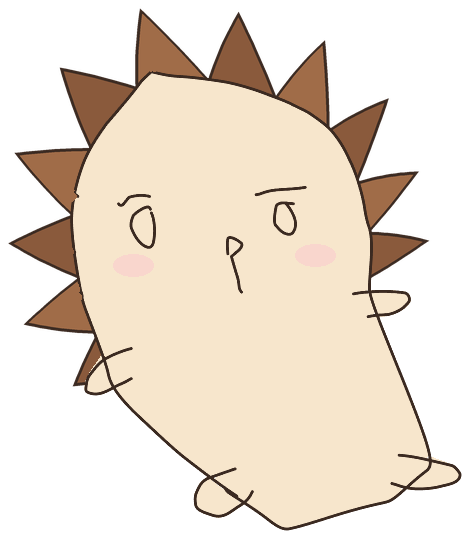
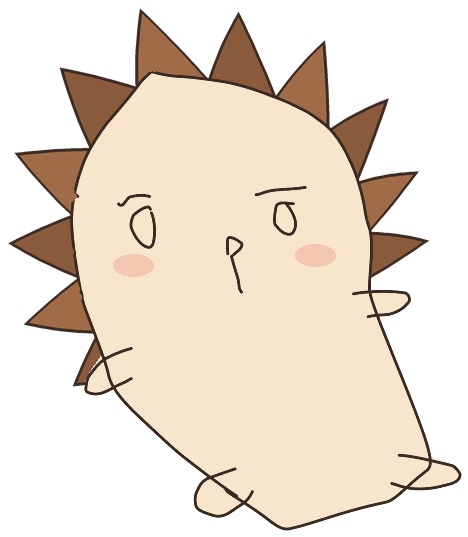
프로필 그림: 부모는 어른 고슴도치, 자녀는 아기 고슴도치
- 연결 탭·설정·연결된 가족·기록 탭 글·역할 선택 화면의 이니셜 동그라미를 고슴도치 그림으로
- 배경은 고른 프로필 색을 연하게, 테두리는 진하게
- 볼터치가 투명하게 비치던 문제 수정 (마스코트 그림도 다시 뽑음)

Claude-Session: https://claude.ai/code/session_01HRZhSQmDeYGswkUaTWCnCH

Changed region(s): [[0.2393, 0.4469, 0.3291, 0.5363], [0.6282, 0.4469, 0.7179, 0.5065]]

diff --git a/index.html b/index.html
@@ -13,7 +13,7 @@
   <meta name="apple-mobile-web-app-title" content="Kync" />
   <link rel="preload" href="fonts/SUIT-Variable.woff2" as="font" type="font/woff2" crossorigin />
   <link rel="preload" href="images/doci.png" as="image" />
-  <link rel="stylesheet" href="kync.css?v=20261012-7" />
+  <link rel="stylesheet" href="kync.css?v=20261013-1" />
   <script>
     // 활동 페이지에서 돌아온 경우: 로그인 확인이 끝나면 그 탭을 열어요 (enterApp에서 처리)
     (function () {
@@ -117,12 +117,12 @@
     <p class="screen-sub">가족 안에서의 역할에 따라 보이는 화면이 달라요.</p>
     <div class="role-opts">
       <button class="role-opt" onclick="setUserRole('parent')">
-        <span class="role-ic parent" data-ic="heart" data-size="26"></span>
+        <span class="role-ic parent"><img src="images/hog-adult.png" alt="" width="52" height="52"></span>
         <span><b>부모로 시작하기</b><small>자녀의 마음을 더 깊이 이해하고 싶어요.</small></span>
         <span class="chev" data-ic="chev"></span>
       </button>
       <button class="role-opt" onclick="setUserRole('child')">
-        <span class="role-ic child" data-ic="smile" data-size="26"></span>
+        <span class="role-ic child"><img src="images/hog-baby.png" alt="" width="52" height="52"></span>
         <span><b>자녀로 시작하기</b><small>부모님께 내 진심을 편하게 전하고 싶어요.</small></span>
         <span class="chev" data-ic="chev"></span>
       </button>
@@ -439,18 +439,18 @@
 <script src="https://www.gstatic.com/firebasejs/9.23.0/firebase-auth-compat.js"></script>
 <script src="https://www.gstatic.com/firebasejs/9.23.0/firebase-firestore-compat.js"></script>
 
-<script src="kync-ui.js?v=20261012-7"></script>
-<script src="kync-legal.js?v=20261012-7"></script>
-<script src="firebase-system.js?v=20261012-7"></script>
-<script src="kync-account.js?v=20261012-7"></script>
-<script src="kync-core.js?v=20261012-7"></script>
-<script src="kync-features.js?v=20261012-7"></script>
-<script src="kync-balance.js?v=20261012-7"></script>
-<script src="kync-diary.js?v=20261012-7"></script>
-<script src="kync-quests2.js?v=20261012-7"></script>
-<script src="kync-counsel.js?v=20261012-7"></script>
-<script src="kync-activity.js?v=20261012-7"></script>
-<script src="kync-inbox.js?v=20261012-7"></script>
+<script src="kync-ui.js?v=20261013-1"></script>
+<script src="kync-legal.js?v=20261013-1"></script>
+<script src="firebase-system.js?v=20261013-1"></script>
+<script src="kync-account.js?v=20261013-1"></script>
+<script src="kync-core.js?v=20261013-1"></script>
+<script src="kync-features.js?v=20261013-1"></script>
+<script src="kync-balance.js?v=20261013-1"></script>
+<script src="kync-diary.js?v=20261013-1"></script>
+<script src="kync-quests2.js?v=20261013-1"></script>
+<script src="kync-counsel.js?v=20261013-1"></script>
+<script src="kync-activity.js?v=20261013-1"></script>
+<script src="kync-inbox.js?v=20261013-1"></script>
 
 <script>
 // 탭 전환 (selectTab은 kync-ui.js에 있어요)

diff --git a/kync-core.js b/kync-core.js
@@ -139,7 +139,7 @@ const App = {
       const others = members.filter(m => m.uid !== myUid);
       const html = others.length ? others.map(m => `
         <div class="member">
-          <div class="avatar" style="background:${KyncUI.avatarColor(m.uid, m.role)}">${this._esc((m.name || '?')[0])}</div>
+          ${KyncUI.avatar(m.uid, m.role)}
           <div><b>${this._esc(m.name || '이름 없음')}</b><small>${m.role === 'parent' ? '부모' : '자녀'}</small></div>
         </div>`).join('') : empty;
       listIds.forEach(id => { const el = document.getElementById(id); if (el) el.innerHTML = html; });
@@ -167,8 +167,8 @@ const App = {
     const userName = localStorage.getItem('kync_user_name') || '';
     if (userName) {
       ['p-username','c-username'].forEach(id => { const el = document.getElementById(id); if (el) el.textContent = userName; });
-      const myColor = KyncUI.avatarColor(KyncAuth?.current?.uid || localStorage.getItem('kync_user_uid'), this._role());
-      ['p-avatar','c-avatar'].forEach(id => { const el = document.getElementById(id); if (el) { el.textContent = userName[0]; el.style.background = myColor; } });
+      const myUid = KyncAuth?.current?.uid || localStorage.getItem('kync_user_uid');
+      [['p-avatar', 'parent'], ['c-avatar', 'child']].forEach(([id, r]) => { const el = document.getElementById(id); if (el) el.outerHTML = KyncUI.avatar(myUid, r, 'lg').replace('class="avatar', `id="${id}" class="avatar`); });
     }
     const joinDate = localStorage.getItem('kync_join_date');
     if (joinDate) this._renderDays(joinDate);

diff --git a/kync-ui.js b/kync-ui.js
@@ -7,7 +7,7 @@
 ═══════════════════════════════════════════════════════════ */
 
 const KYNC_CONFIG = {
-  version: '1.1.1',
+  version: '1.1.2',
   contactEmail: 'xoun148@gmail.com',
   termsVersion: '2026-10-12',   // 약관 내용이 바뀌면 날짜를 바꾸면 다시 동의를 받아요
 };
@@ -228,6 +228,18 @@ KyncUI.avatarColor = function (uid, role) {
   const mine = uid && uid === (KyncAuth?.current?.uid || localStorage.getItem('kync_user_uid'));
   const c = (mine && KyncAccount?.profile?.color) || KyncAccount?.family?.members?.[uid]?.color;
   return c || (role === 'child' ? '#4F7FAF' : '#7A4E36');
+};
+
+// 프로필 그림: 부모는 어른 고슴도치, 자녀는 아기 고슴도치. 배경은 고른 색을 연하게
+KyncUI.tint = function (hex, amt) {
+  const n = parseInt(hex.slice(1), 16), a = amt ?? 0.22;
+  const mix = c => Math.round(255 - (255 - c) * a);
+  return `rgb(${mix(n >> 16)}, ${mix((n >> 8) & 255)}, ${mix(n & 255)})`;
+};
+KyncUI.avatar = function (uid, role, cls) {
+  const color = KyncUI.avatarColor(uid, role);
+  const src = role === 'child' ? 'images/hog-baby.png' : 'images/hog-adult.png';
+  return `<div class="avatar hog ${cls || ''}" style="background:${KyncUI.tint(color)};box-shadow:inset 0 0 0 2px ${color}"><img src="${src}" alt="${role === 'child' ? '아기 고슴도치' : '어른 고슴도치'}"></div>`;
 };
 
 /* ── 홈 화면에 추가 (앱 설치) ── */

diff --git a/quiz.html b/quiz.html
@@ -6,7 +6,7 @@
   <title>Kync — 대화 유형 검사</title>
   <meta name="theme-color" content="#F4F1EC" />
   <link rel="icon" href="icons/icon-192.png" />
-  <link rel="stylesheet" href="kync.css?v=20261012-7" />
+  <link rel="stylesheet" href="kync.css?v=20261013-1" />
   <script src="https://cdnjs.cloudflare.com/ajax/libs/Chart.js/4.4.1/chart.umd.min.js"></script>
 </head>
 <body>
@@ -101,12 +101,12 @@
 <script src="https://www.gstatic.com/firebasejs/9.23.0/firebase-app-compat.js"></script>
 <script src="https://www.gstatic.com/firebasejs/9.23.0/firebase-auth-compat.js"></script>
 <script src="https://www.gstatic.com/firebasejs/9.23.0/firebase-firestore-compat.js"></script>
-<script src="kync-ui.js?v=20261012-7"></script>
-<script src="firebase-system.js?v=20261012-7"></script>
+<script src="kync-ui.js?v=20261013-1"></script>
+<script src="firebase-system.js?v=20261013-1"></script>
 <script>
 KyncAuth.onAuthChange(user => { if (!user) location.href = 'index.html'; });
 function goHome(){ Quiz.saveAndGoHome(); }
 </script>
-<script src="quiz.js?v=20261012-7"></script>
+<script src="quiz.js?v=20261013-1"></script>
 </body>
 </html>

diff --git a/activity-quiz.html b/activity-quiz.html
@@ -6,7 +6,7 @@
   <title>Kync — 서로 맞히기</title>
   <meta name="theme-color" content="#F4F1EC" />
   <link rel="icon" href="icons/icon-192.png" />
-  <link rel="stylesheet" href="kync.css?v=20261012-7" />
+  <link rel="stylesheet" href="kync.css?v=20261013-1" />
 </head>
 <body>
 <div class="sub-app">
@@ -28,9 +28,9 @@
 <script src="https://www.gstatic.com/firebasejs/9.23.0/firebase-app-compat.js"></script>
 <script src="https://www.gstatic.com/firebasejs/9.23.0/firebase-auth-compat.js"></script>
 <script src="https://www.gstatic.com/firebasejs/9.23.0/firebase-firestore-compat.js"></script>
-<script src="kync-ui.js?v=20261012-7"></script>
-<script src="firebase-system.js?v=20261012-7"></script>
-<script src="kync-features.js?v=20261012-7"></script>
+<script src="kync-ui.js?v=20261013-1"></script>
+<script src="firebase-system.js?v=20261013-1"></script>
+<script src="kync-features.js?v=20261013-1"></script>
 <script>
   const myRole = localStorage.getItem('kync_role') || 'parent';
   const familyCode = localStorage.getItem('kync_family_code') || 'local';

diff --git a/activity-together.html b/activity-together.html
@@ -6,7 +6,7 @@
   <title>Kync — 밸런스 게임</title>
   <meta name="theme-color" content="#F4F1EC" />
   <link rel="icon" href="icons/icon-192.png" />
-  <link rel="stylesheet" href="kync.css?v=20261012-7" />
+  <link rel="stylesheet" href="kync.css?v=20261013-1" />
 </head>
 <body>
 <div class="sub-app">
@@ -31,9 +31,9 @@
 <script src="https://www.gstatic.com/firebasejs/9.23.0/firebase-app-compat.js"></script>
 <script src="https://www.gstatic.com/firebasejs/9.23.0/firebase-auth-compat.js"></script>
 <script src="https://www.gstatic.com/firebasejs/9.23.0/firebase-firestore-compat.js"></script>
-<script src="kync-ui.js?v=20261012-7"></script>
-<script src="firebase-system.js?v=20261012-7"></script>
-<script src="kync-features.js?v=20261012-7"></script>
+<script src="kync-ui.js?v=20261013-1"></script>
+<script src="firebase-system.js?v=20261013-1"></script>
+<script src="kync-features.js?v=20261013-1"></script>
 <script>
   const myRole = localStorage.getItem('kync_role') || 'parent';
   const familyCode = localStorage.getItem('kync_family_code') || 'local';

diff --git a/activity-balance.html b/activity-balance.html
@@ -6,7 +6,7 @@
   <title>Kync — 취향 맞추기</title>
   <meta name="theme-color" content="#F4F1EC" />
   <link rel="icon" href="icons/icon-192.png" />
-  <link rel="stylesheet" href="kync.css?v=20261012-7" />
+  <link rel="stylesheet" href="kync.css?v=20261013-1" />
 </head>
 <body>
 <div class="sub-app">
@@ -70,9 +70,9 @@
 <script src="https://www.gstatic.com/firebasejs/9.23.0/firebase-app-compat.js"></script>
 <script src="https://www.gstatic.com/firebasejs/9.23.0/firebase-auth-compat.js"></script>
 <script src="https://www.gstatic.com/firebasejs/9.23.0/firebase-firestore-compat.js"></script>
-<script src="kync-ui.js?v=20261012-7"></script>
-<script src="firebase-system.js?v=20261012-7"></script>
-<script src="kync-balance.js?v=20261012-7"></script>
+<script src="kync-ui.js?v=20261013-1"></script>
+<script src="firebase-system.js?v=20261013-1"></script>
+<script src="kync-balance.js?v=20261013-1"></script>
 <script>
   const myRole = localStorage.getItem('kync_role') || 'parent';
   const familyCode = localStorage.getItem('kync_family_code') || 'local';

diff --git a/kync-diary.js b/kync-diary.js
@@ -424,7 +424,7 @@ const KyncDiary = {
           ${e.img ? `<img class="post-img" src="${e.img}" alt="${this._esc(e.name)}의 사진" loading="lazy" onclick="KyncDiary.openImgById('${entryId}')">` : ''}
           <div class="post-body">
             <div class="post-meta">
-              <div class="avatar sm" style="background:${KyncUI.avatarColor(e.uid, e.role)}">${this._esc((e.name || '?')[0])}</div>
+              ${KyncUI.avatar(e.uid, e.role, 'sm')}
               <span class="name">${this._esc(e.name || '')}</span>
               ${emo ? `<span class="pill"><i class="dot" style="width:7px;height:7px;border-radius:50%;background:${emo.dot}"></i>${emo.label}</span>` : ''}
               <span class="date">${time}</span>

diff --git a/kync.css b/kync.css
@@ -753,3 +753,9 @@ input[type=range]::-moz-range-thumb { width: 22px; height: 22px; border-radius: 
 .color-row { display: flex; flex-wrap: wrap; gap: 10px; }
 .color-opt { width: 44px; height: 44px; border-radius: 50%; display: flex; align-items: center; justify-content: center; color: #fff; }
 .color-opt.on { box-shadow: 0 0 0 3px var(--card), 0 0 0 5px var(--ink); }
+
+/* 프로필 고슴도치 */
+.avatar.hog { overflow: hidden; padding: 0; }
+.avatar.hog img { width: 100%; height: 100%; object-fit: cover; display: block; }
+.role-ic { overflow: hidden; }
+.role-ic img { display: block; width: 100%; height: 100%; }

diff --git a/kync-account.js b/kync-account.js
@@ -470,7 +470,7 @@ const KyncAccount = {
 
     document.getElementById('settings-body').innerHTML = `
       <button class="me-head" onclick="KyncAccount.editName()">
-        <div class="avatar lg" style="background:${KyncUI.avatarColor(this.uid(), role)}">${this.esc((p.name || '?')[0])}</div>
+        ${KyncUI.avatar(this.uid(), role, 'lg')}
         <span><b>${this.esc(p.name || '이름 없음')}</b><small>${roleLabel}${age !== null ? ` · 만 ${age}세` : ''} · ${this.esc(user?.email || '')}</small></span>
         <span class="chev">${ic('edit', 20)}</span>
       </button>
